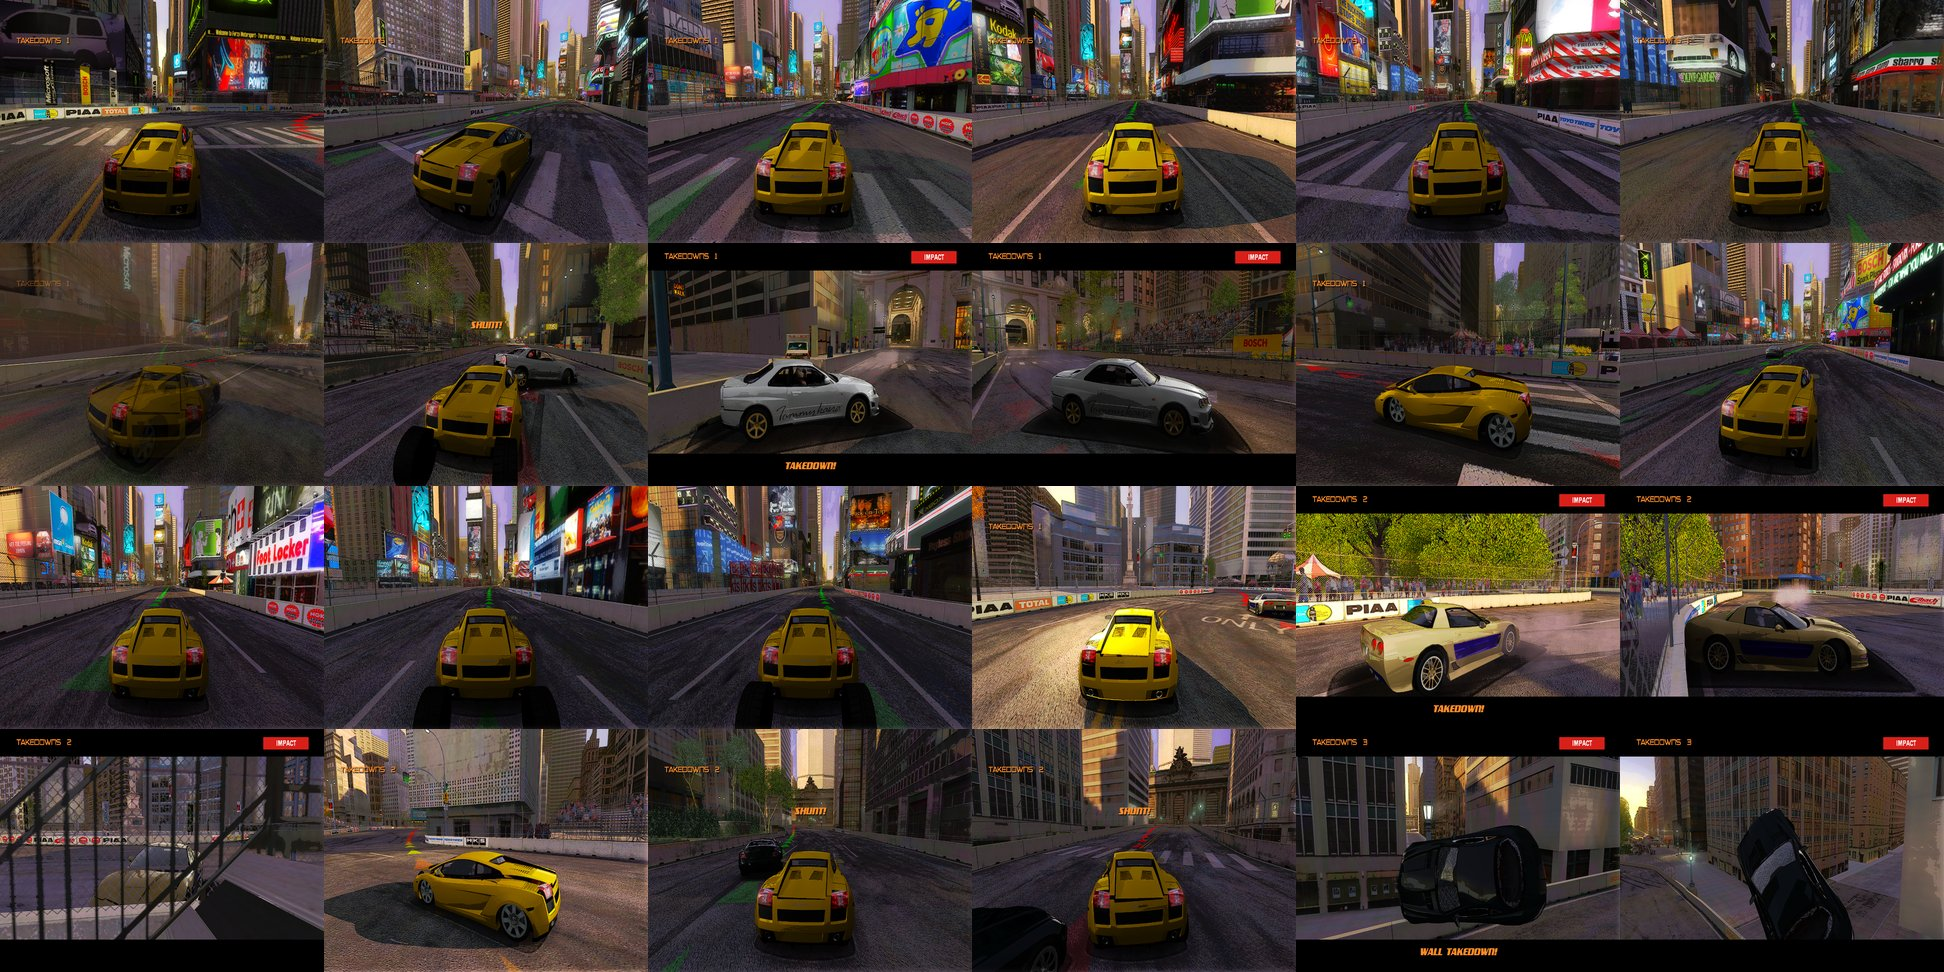
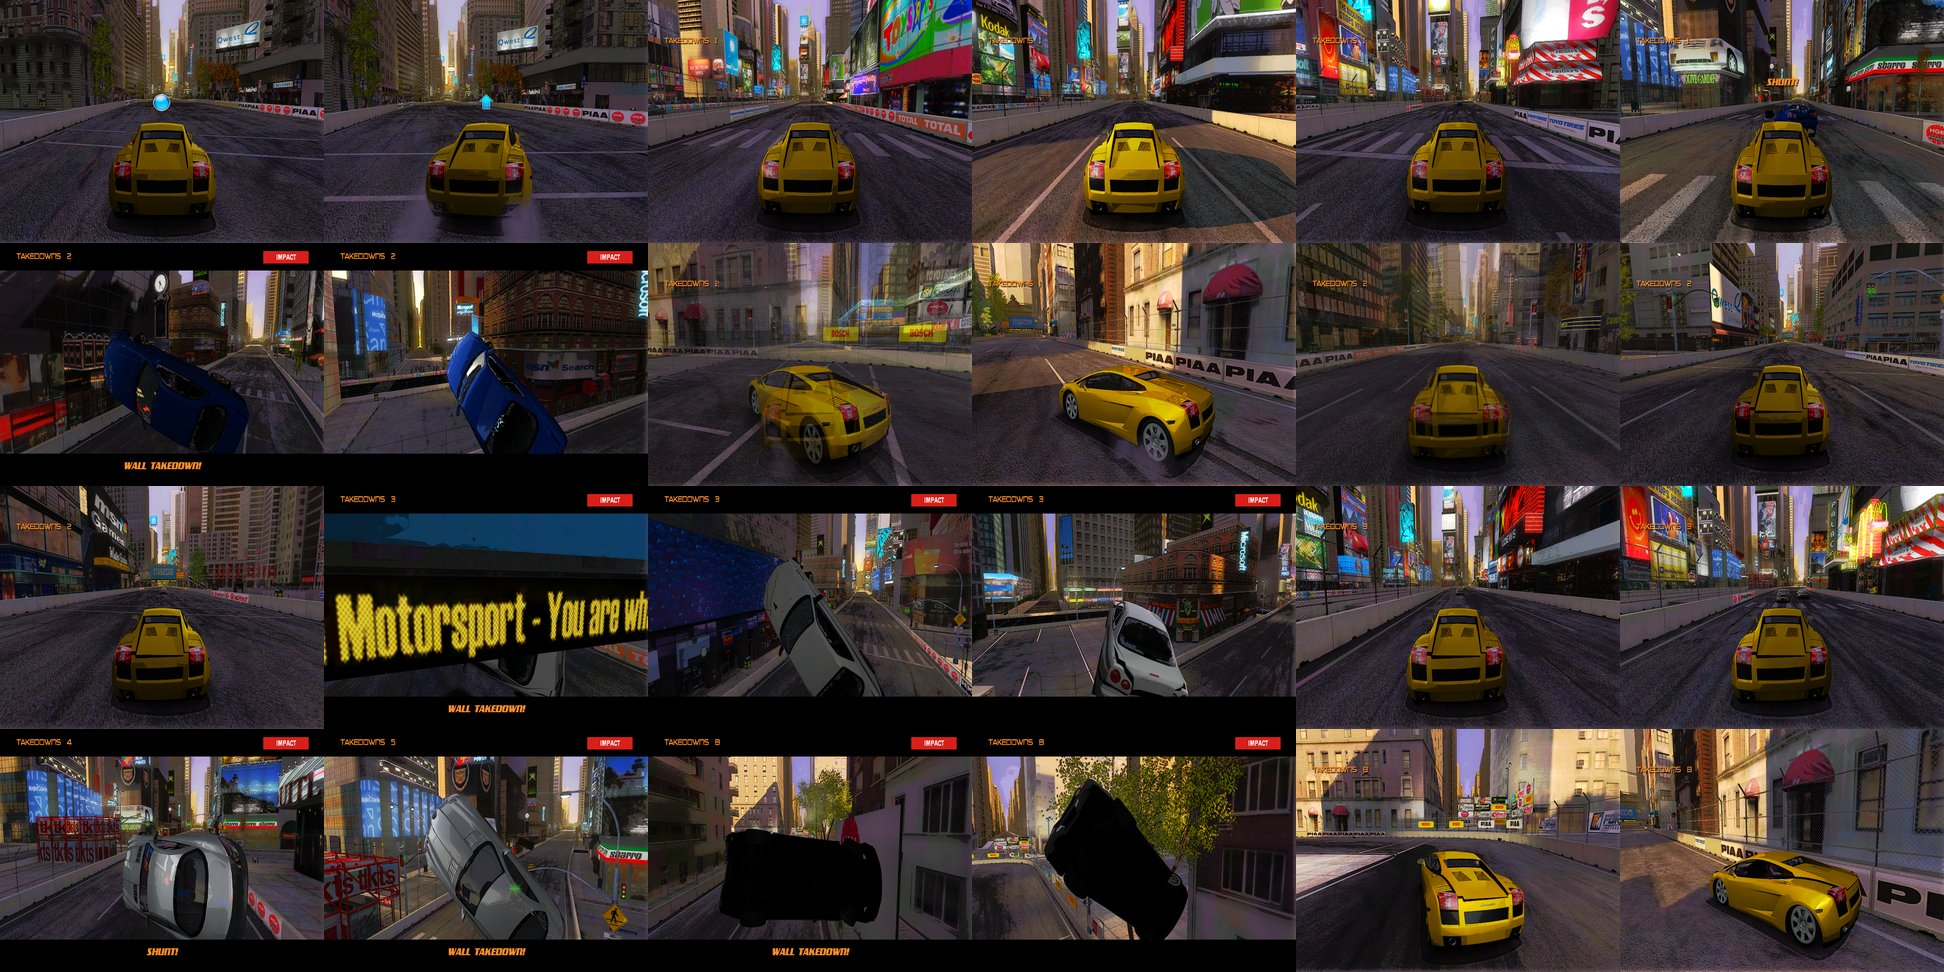
The category videos again, the cars driven through the pad (the user's, 16 Nov: wheels and behaviour normal)
XBRT_PILOT: the test car driven as a player drives it (steering, throttle, brake, handbrake through hle_input.c),
so the game's physics carry it and its replay follows from the recorded pad; XBRT_PILOT_DRIFT holds powered
slides, XBRT_PILOT_HUNT / _RIVALS make Mayhem's takedowns. The three clips re-recorded and re-cut.

diff --git a/runtime/hle_quickrace.c b/runtime/hle_quickrace.c
@@ -1048,6 +1048,158 @@ static void autopilot(uint32_t car, uint32_t xs, uint32_t zs, uint32_t np, doubl
     wrf(car + 0x44, vx * auto_speed), wrf(car + 0x4C, vz * auto_speed);
 }
 
+/* XBRT_PILOT=<top speed, m/s> (the categories' videos again, the user's, 16 Nov: "the wheels having better, realistic
+ * autopilot ... make sure the car behaves normally too"): the player's car driven as a player drives it, through the
+ * pad alone (hle_input.c gives the game rt_pilot_steer / _thr / _brk), so the game's own physics carry it: its
+ * suspension, its roll, its wheels where they belong. The autopilot above writes the car's place and facing every
+ * tick, and the wheels, pulled along by a body that never rolled or slid, stood out of the arches.
+ *  - the wheel: at a point of the racing line ahead (further the faster), by the angle to it from the way the car
+ *    goes, the nose's slide against that way steered out (a counter-steer), eased as a hand turns it;
+ *  - the pedals: the line ahead read for its bends, each one's speed what XBRT_PILOT_GRIP (m/s^2 across, 9) allows,
+ *    braked for in time at XBRT_PILOT_BRAKE (m/s^2, 7); the throttle eased while the car slides.
+ *  - XBRT_PILOT_DRIFT=<degrees>: in a bend the throttle holds the nose that far inside the way the car goes (a
+ *    powered slide), entered with a touch of the handbrake (A). */
+volatile float rt_pilot_steer, rt_pilot_thr, rt_pilot_brk;
+volatile int rt_pilot_hand;
+static int hunt_on; /* XBRT_PILOT_HUNT=1 (Mayhem's video): a rival close ahead is steered at, for the takedown */
+static float hunt_x, hunt_z;
+static int pilot_over; /* XBRT_PILOT_ONCE: the race driven and done; no pilot after it */
+volatile uint64_t rt_pilot_at; /* (rt_now_100ns of the last word: hle_input.c heeds it for 0.2 s) */
+static float envf(const char *name, float dflt) { const char *s = getenv(name); return s && *s ? (float)atof(s) : dflt; }
+static void pilot(uint32_t car, uint32_t xs, uint32_t zs, uint32_t np, double dt, float top, int on_grid) {
+    enum { NS = 200 };
+    static const float STEP = 4.0f;
+    static uint32_t pcar;
+    static int pk = -1;
+    static float steer, grip = -1, brake_a, drift_deg, ksteer, kslip, hand_until;
+    static uint64_t told;
+    if (grip < 0) {
+        grip = envf("XBRT_PILOT_GRIP", 9.0f), brake_a = envf("XBRT_PILOT_BRAKE", 5.5f), drift_deg = envf("XBRT_PILOT_DRIFT", 0);
+        ksteer = envf("XBRT_PILOT_STEER", 1.5f), kslip = envf("XBRT_PILOT_SLIP", 1.5f);
+    }
+    float x = rdf(car + 0x14), z = rdf(car + 0x1C), vx = rdf(car + 0x44), vz = rdf(car + 0x4C), v = sqrtf(vx * vx + vz * vz);
+    float fx = rdf(car + 0x38), fz = rdf(car + 0x40), fl = sqrtf(fx * fx + fz * fz);
+    if (fl < 0.1f) return;
+    fx /= fl, fz /= fl;
+    if (pcar != car || pk < 0) pk = nearest(xs, zs, np, x, z), pcar = car, steer = 0;
+    else { /* (the line's point by the car: looked for on from the last, the whole line only when lost) */
+        float best = 1e30f;
+        int bk = pk;
+        for (int j = -5; j < 60; j++) {
+            int k = ((pk + j) % (int)np + (int)np) % (int)np;
+            float ex = rdf(xs + 4 * k) - x, ez = rdf(zs + 4 * k) - z, d = ex * ex + ez * ez;
+            if (d < best) best = d, bk = k;
+        }
+        pk = best > 900 ? nearest(xs, zs, np, x, z) : bk;
+    }
+    if (pk < 0) return;
+    /* the line ahead, a point every 4 m */
+    float sx[NS], sz[NS];
+    {
+        float px = rdf(xs + 4 * pk), pz = rdf(zs + 4 * pk), need = 0;
+        int k = pk, ns = 0;
+        for (int guard = 0; guard < 4000 && ns < NS; guard++) {
+            int k2 = (k + 1) % (int)np;
+            float tx = rdf(xs + 4 * k2) - px, tz = rdf(zs + 4 * k2) - pz, d = sqrtf(tx * tx + tz * tz);
+            if (d < 1e-4f) { k = k2; continue; }
+            if (d < need) { need -= d, px += tx, pz += tz, k = k2; continue; }
+            px += tx / d * need, pz += tz / d * need;
+            sx[ns] = px, sz[ns] = pz, ns++, need = STEP;
+        }
+        for (; ns < NS; ns++) sx[ns] = sx[ns ? ns - 1 : 0], sz[ns] = sz[ns ? ns - 1 : 0];
+    }
+    /* the speed the bends ahead allow here, and the bend the car is in (+ right) */
+    float allow = top, bend_here = 0;
+    for (int i = 3; i + 3 < NS; i++) {
+        float ax = sx[i] - sx[i - 3], az = sz[i] - sz[i - 3], bx = sx[i + 3] - sx[i], bz = sz[i + 3] - sz[i];
+        float al = sqrtf(ax * ax + az * az), bl = sqrtf(bx * bx + bz * bz);
+        if (al < 0.1f || bl < 0.1f) continue;
+        float sn = (az * bx - ax * bz) / (al * bl); /* (+: the line turns right) */
+        float curv = fabsf(sn) / (3 * STEP);
+        if (i < 9 && fabsf(sn) > fabsf(bend_here)) bend_here = sn;
+        float vmax = curv > 1e-4f ? sqrtf(grip / curv) : top;
+        if (vmax > top) vmax = top;
+        float here = sqrtf(vmax * vmax + 2 * brake_a * (float)(i - 3) * STEP);
+        if (here < allow) allow = here;
+        if ((float)i * STEP > v * v / (2 * brake_a) + 80) break;
+    }
+    /* the wheel */
+    float look = envf("XBRT_PILOT_LOOK0", 7) + envf("XBRT_PILOT_LOOK", 0.5f) * v;
+    int li = (int)(look / STEP);
+    if (li >= NS) li = NS - 1;
+    float tx = sx[li] - x, tz = sz[li] - z;
+    if (hunt_on) tx = hunt_x - x, tz = hunt_z - z;
+    float hx = fx, hz = fz; /* (the way the car goes: its speed's above a walk, its nose's under) */
+    if (v > 6) hx = vx / v, hz = vz / v;
+    static float flip = 0;
+    if (flip == 0) flip = envf("XBRT_PILOT_FLIP", 0) != 0 ? -1.0f : 1.0f;
+    float aim = atan2f(tx * hz - tz * hx, tx * hx + tz * hz) * flip; /* (+: the point to the right of the way it goes) */
+    float slip = atan2f(fx * hz - fz * hx, fx * hx + fz * hz) * flip; /* (+: the nose right of the way it goes) */
+    bend_here *= flip;
+    static float bend_min = -1; /* (a bend worth a slide: tighter than some 55 m) */
+    if (bend_min < 0) bend_min = envf("XBRT_PILOT_BEND", 0.22f);
+    int bending = fabsf(bend_here) > bend_min && v > 12;
+    float want_slip = drift_deg > 0 && bending ? (bend_here > 0 ? 1.0f : -1.0f) * drift_deg * 0.01745f : 0;
+    { /* (from one bend into the other the angle wanted swings over in its time, not at once) */
+        static float wsm;
+        float step = 0.9f * (float)dt, dw = want_slip - wsm;
+        wsm += dw > step ? step : dw < -step ? -step : dw;
+        if (drift_deg <= 0) wsm = 0;
+        want_slip = wsm;
+    }
+    static float slip_was, slip_rate, kd = -1, hand_s;
+    if (kd < 0) kd = envf("XBRT_PILOT_KD", 0.3f), hand_s = envf("XBRT_PILOT_HAND", 0.2f);
+    if (dt > 1e-4) slip_rate += ((slip - slip_was) / (float)dt - slip_rate) * (1 - expf(-15.0f * (float)dt)); /* (how fast the tail comes round: caught early) */
+    slip_was = slip;
+    float raw = ksteer * aim - kslip * (slip - want_slip) - (drift_deg > 0 ? kd * slip_rate : 0);
+    if (raw > 1) raw = 1;
+    if (raw < -1) raw = -1;
+    steer += (raw - steer) * (1 - expf(-(drift_deg > 0 ? 18.0f : 10.0f) * (float)dt)); /* (quicker hands in a slide) */
+    /* the pedals */
+    static float thr_was, brk_was;
+    float thr = 0, brk = 0, err = allow - v;
+    if (on_grid) thr = 1;
+    else if (err < -0.5f) brk = -err / 4 < 0.15f ? 0.15f : -err / 4 > 0.9f ? 0.9f : -err / 4;
+    else thr = err / 4 < 0.25f ? 0.25f : err / 4 > 1 ? 1 : err / 4;
+    int sliding = drift_deg > 0 && !on_grid && bending && brk < 0.5f && v > 9;
+    if (!on_grid && !sliding) { /* (a foot, not a switch: pressed over 0.6 s; less of it with the wheel turned or the car sliding) */
+        float cap = 1 - 0.75f * fabsf(steer), sl = 1 - fabsf(slip) / 0.21f;
+        if (sl < 0.1f) sl = 0.1f;
+        if (drift_deg > 0 && v < 8) cap = 0.6f, sl = 1; /* (after a spin: away gently, no wheelspin on the lock) */
+        if (thr > cap) thr = cap;
+        thr *= sl;
+        if (thr > thr_was + (float)dt / 0.6f) thr = thr_was + (float)dt / 0.6f;
+        if (brk > brk_was + (float)dt / 0.3f) brk = brk_was + (float)dt / 0.3f;
+        float bcap = 1 - 0.8f * fabsf(steer); /* (the brakes let off as the wheel turns in; eased in a slide, or it spins) */
+        if (brk > bcap) brk = bcap;
+        if (fabsf(slip) > 0.12f) brk *= 0.4f;
+    }
+    int hand = 0;
+    float now_s = (float)(rt_game_now_100ns() / 1e7);
+    if (sliding) { /* (the slide held on the throttle: more of it short of the angle, less past it or while the tail still comes round) */
+        float sg = bend_here > 0 ? 1.0f : -1.0f, inside = slip * sg, wd = fabsf(want_slip), rate_in = slip_rate * sg;
+        static float kthr = -1, kthr_d, thr0;
+        if (kthr < 0) kthr = envf("XBRT_PILOT_THR_P", 2.0f), kthr_d = envf("XBRT_PILOT_THR_D", 0.3f), thr0 = envf("XBRT_PILOT_THR0", 0.55f);
+        brk = 0;
+        thr = thr0 + kthr * (wd - inside) - kthr_d * rate_in;
+        if (thr > 1) thr = 1;
+        if (thr < 0.05f) thr = 0.05f;
+        if (inside < -0.12f && thr > 0.25f) thr = 0.25f; /* (the tail out the other way still: no power into it) */
+        if (inside < 0.1f && rate_in < 0.3f && now_s > hand_until + 2.0f) hand_until = now_s + hand_s; /* (not sliding yet: the handbrake's touch) */
+        hand = now_s < hand_until;
+    }
+    thr_was = thr, brk_was = brk;
+    static float dz = -1; /* (the game heeds nothing of the stick's first quarter: the wheel's word starts past it) */
+    if (dz < 0) dz = envf("XBRT_PILOT_DZ", 0.24f);
+    float out = fabsf(steer) < 0.01f ? 0 : (steer > 0 ? 1.0f : -1.0f) * (dz + (1 - dz) * fabsf(steer));
+    rt_pilot_steer = out, rt_pilot_thr = thr, rt_pilot_brk = brk, rt_pilot_hand = hand, rt_pilot_at = rt_now_100ns();
+    if (rt_now_100ns() - told > 10000000) {
+        told = rt_now_100ns();
+        fprintf(stderr, "xbrt: pilot: point %d, %.0f m/s (allowed %.0f), slip %.0f deg (wanted %.0f), steer %.2f, throttle %.2f, brake %.2f%s\n",
+                pk, v, allow, slip * 57.3f, want_slip * 57.3f, steer, thr, brk, hand ? ", handbrake" : "");
+    }
+}
+
 /* Finding a car's damage (for the takedown's wrecks): XBRT_DMGSCAN=1, watched from the race's start: the player's
  * car's first 32 KB and the first 4 KB of every object its first 2 KB points at (up to 48). Damage only grows, so
  * the floats that were 0 then and never went down since (looked at every 0.2 s) and now stand above 0 (up to 5)
@@ -1437,6 +1589,7 @@ void rt_qr_tick(void) {
         uint32_t laps = evp && evp < RT_USER_LIMIT ? xb_rd32(evp + 0x24) : 0;
         /* the player's run done (+0x1B8), once its laps are all done (the event's, +0x24) */
         int done = rme && (xb_rd32(rme + 0x1B8) & 0xFF) && (laps == 0 || laps > 99 || lapn >= (int)laps) && !getenv("XBRT_MM_PHOTO");
+        if (laps > 0 && laps <= 99 && lapn >= (int)laps && getenv("XBRT_PILOT_ONCE")) pilot_over = 1; /* (Arcade: its laps done, never marked) */
         int why = paused ? 1 : done ? 2 : rme && (xb_rd32(rme + 0x1B8) & 0xFF) ? 3 : 0;
         if (lapn != lap_was || why != why_was) {
             fprintf(stderr, "xbrt: quick race: lap %d of %u, clock %.1f s, %s\n", lapn, laps, clock,
@@ -1445,6 +1598,7 @@ void rt_qr_tick(void) {
         }
         if (paused) return;
         if (done) {
+            if (getenv("XBRT_PILOT_ONCE")) pilot_over = 1; /* (the replay after it: the recorded pad's alone, the replay's bar left be) */
             if (tdcam_until) tdcam_end();
             rt_qr_auto = 0;
             return;
@@ -1452,6 +1606,33 @@ void rt_qr_tick(void) {
     }
     qr_ticks++;
     float mp[3] = {0, 0, 0}, mdv[3] = {0, 0, 0}, mjolt = 0, mv0[3] = {0, 0, 0};
+    if (me && have_line) {
+        static float pilot_top = -1;
+        if (pilot_top < 0) pilot_top = envf("XBRT_PILOT", 0);
+        uint32_t ptm = rme ? xb_rd32(rme + 0xC0) : 0;
+        hunt_on = 0;
+        if (pilot_top > 0 && getenv("XBRT_PILOT_HUNT")) { /* (the nearest rival within 70 m ahead and 10 m to a side, not one already down) */
+            float px = rdf(me + 0x14), pz = rdf(me + 0x1C), hx = rdf(me + 0x38), hz = rdf(me + 0x40), best = 70;
+            for (uint32_t j = 0; j < n; j++) {
+                uint32_t r2 = xb_rd32(arr + 4 * j), c2 = r2 && r2 < RT_USER_LIMIT ? xb_rd32(r2 + 0xA0) : 0;
+                if (!c2 || c2 == me || c2 >= RT_USER_LIMIT || (int)j >= MAXCARS || cs[j].down_at) continue;
+                float ex = rdf(c2 + 0x14) - px, ez = rdf(c2 + 0x1C) - pz, along = ex * hx + ez * hz, side = ex * hz - ez * hx;
+                { /* XBRT_PILOT_RIVALS=<m/s>: the rivals held to that pace (eased off above it), so a car driven as a
+                   * player drives catches them */
+                    static float cap = -1;
+                    if (cap < 0) cap = envf("XBRT_PILOT_RIVALS", 0);
+                    float rvx = rdf(c2 + 0x44), rvz = rdf(c2 + 0x4C), rs = sqrtf(rvx * rvx + rvz * rvz);
+                    if (cap > 0 && rs > cap && !cs[j].hit_at && !cs[j].tumble_until) {
+                        float k = 1 - 1.2f * (float)dt;
+                        wrf(c2 + 0x44, rvx * k), wrf(c2 + 0x4C, rvz * k);
+                    }
+                }
+                if (along > 6 && along < best && fabsf(side) < 10) best = along, hunt_on = 1, hunt_x = rdf(c2 + 0x14), hunt_z = rdf(c2 + 0x1C);
+            }
+        }
+        if (pilot_top > 0 && ptm && ptm < RT_USER_LIMIT && !tdcam_until && !pilot_over)
+            pilot(me, xs, zs, np, dt, pilot_top, (int)xb_rd32(ptm + 0x9C) < 0 && rdf(ptm + 0xA0) <= 0);
+    }
     if (me) {
         mp[0] = rdf(me + 0x14), mp[1] = rdf(me + 0x18), mp[2] = rdf(me + 0x1C);
         if (cs[im].car == me) { /* the player's own jolt this tick (a touch jolts both cars) */

diff --git a/docs/research/catvideos/cuts.py b/docs/research/catvideos/cuts.py
@@ -1,0 +1,33 @@
+"""cuts.py <folder> <first> <last>: the camera's cuts in a run of pictures (a jump in the picture from one to the next),
+as the stretches between them: first picture, count."""
+import os
+import sys
+
+import numpy as np
+from PIL import Image
+
+d, a, b = sys.argv[1], int(sys.argv[2]), int(sys.argv[3])
+
+
+def small(k):
+    for t in ('p_%d.ppm', 'p_%03d.ppm', 'p_%04d.ppm'):
+        f = os.path.join(d, t % k)
+        if os.path.exists(f):
+            return np.asarray(Image.open(f).convert('L').resize((64, 48)), dtype=np.float32)
+    return None
+
+
+prev, start, out, diffs = None, a, [], []
+for k in range(a, b):
+    im = small(k)
+    if im is None: continue
+    if prev is not None:
+        df = float(np.abs(im - prev).mean())
+        diffs.append(df)
+        med = float(np.median(diffs[-40:])) if len(diffs) > 5 else 8.0
+        if df > max(22.0, 3.5 * med):
+            out.append((start, k - start))
+            start = k
+    prev = im
+out.append((start, b - start))
+print(' '.join('%d:%d' % s for s in out))

diff --git a/runtime/rt.h b/runtime/rt.h
@@ -142,6 +142,9 @@ float rt_qr_mayhem_share(void); /* the share of the lap Mayhem's rivals are spre
 int rt_qr_mayhem_grid(void); /* the grid being laid is a Mayhem event's (hle_quickrace.c) */
 extern volatile float rt_toon; /* Mayhem's cartoon look, 0..1 (hle_quickrace.c sets it, glfill.c draws it) */
 extern volatile uint64_t rt_present_hold_until; /* the shown picture held until then (glfill.c; the camera probe) */
+extern volatile float rt_pilot_steer, rt_pilot_thr, rt_pilot_brk; /* XBRT_PILOT (hle_quickrace.c): the pad a test's driver holds */
+extern volatile int rt_pilot_hand;
+extern volatile uint64_t rt_pilot_at;
 extern volatile float rt_pad_steer, rt_pad_throttle, rt_pad_brake; /* the pad as given to the game: -1..1 (right +), 0..1, 0..1 (hle_input.c) */
 extern volatile float rt_vblank_rate; /* vertical blanks at this share of 59.94 Hz (nv2a.c): the game's slow motion */
 void rt_toast(const char *msg);     /* a note on the picture for a moment (display.c; glover.c draws it) */

diff --git a/runtime/hle_input.c b/runtime/hle_input.c
@@ -319,6 +319,11 @@ static void host_pad(uint32_t pad) {
         if (hold || st == 2) thumbs[0] = 0;
         start_was = (buttons & 0x10) != 0;
     }
+    if (rt_pilot_at && rt_now_100ns() - rt_pilot_at < 2000000) { /* XBRT_PILOT (hle_quickrace.c): the car driven through the pad */
+        thumbs[0] = (int16_t)(rt_pilot_steer * 32767);
+        analog[A_RT] = (uint8_t)(rt_pilot_thr * 255), analog[A_LT] = (uint8_t)(rt_pilot_brk * 255);
+        if (rt_pilot_hand) analog[A_A] = 255;
+    }
     /* what the game is given to drive with (Mayhem's arcade handling, hle_quickrace.c, works from it) */
     rt_pad_steer = thumbs[0] / 32767.0f, rt_pad_throttle = analog[A_RT] / 255.0f, rt_pad_brake = analog[A_LT] / 255.0f;
     /* Our menus (F1, Quick Race, Prize Match) open, or closed with something still held: the game sees nothing
